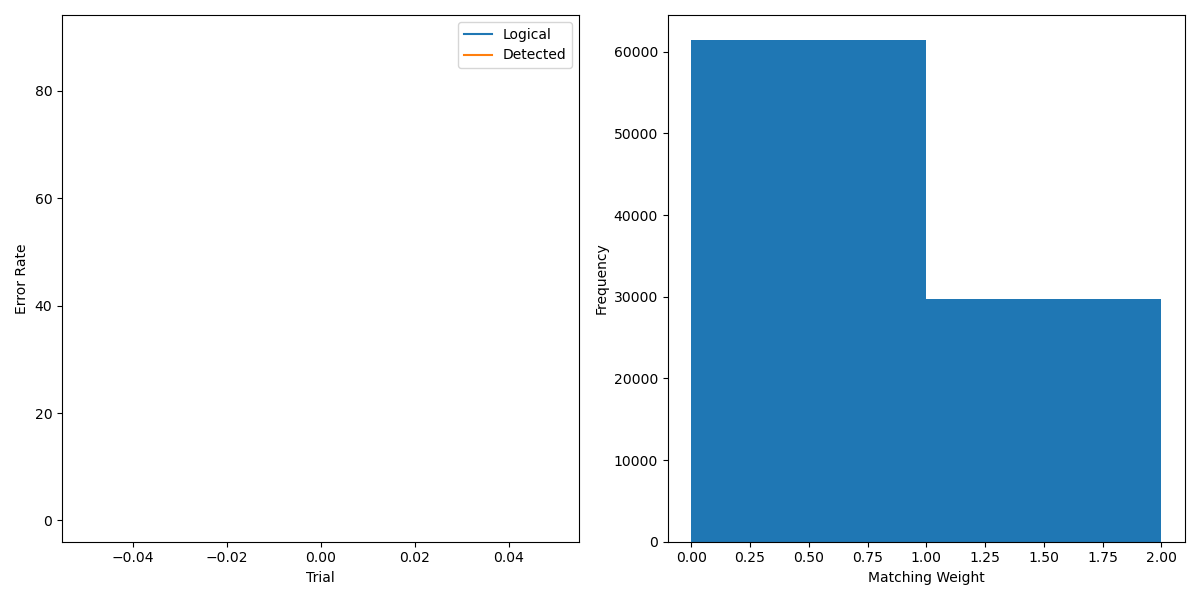
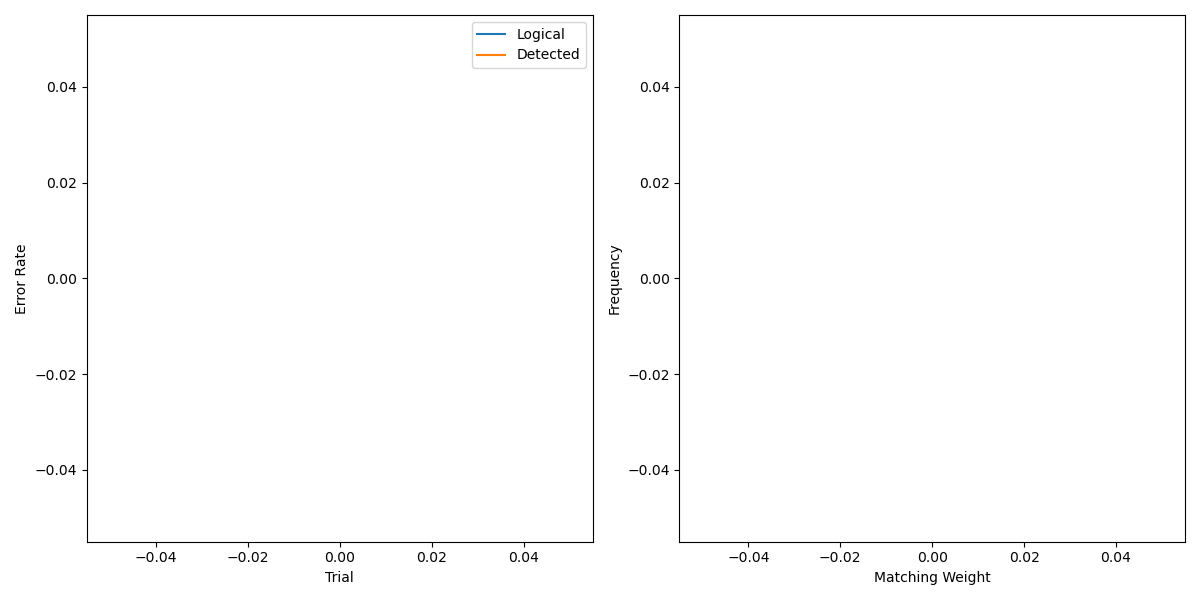
some plots

diff --git a/mine.py b/mine.py
@@ -4,20 +4,21 @@ from dotenv import load_dotenv
 import os
 import networkx as nx
 import pickle
+from qiskit.visualization import circuit_drawer
 
 from utils import apply_stabilizers, run_on_ibm, run_on_simulator, calculate_error_statistics, plot_error_stats
 from utils import process_detection_events, build_mwpm_graph, apply_mwpm, inject_random_errors
 
 load_dotenv()
 API_KEY = os.getenv("IBM_API_KEY")
-SIMULATION = False
+SIMULATION = True
 NUM_TRIALS = 1
 stats_history = []
 
 if not SIMULATION: NUM_TRIALS = 1
 
 for trial in range(NUM_TRIALS):
-    grid = 11
+    grid = 3
     n_rounds = 4
 
     if grid % 2 != 1:
@@ -56,47 +57,48 @@ for trial in range(NUM_TRIALS):
         c = c + 1
 
     # plot the circuit
-    # qc.draw('mpl')
-    # plt.savefig("circuit.png")
-    # plt.close()
+    fig = plt.figure(figsize=(12, 5), dpi=600)
+    fig = circuit_drawer(qc, output='mpl', fold=300, style="clifford") #fold=100
+    fig.set_dpi(600)
+    fig.savefig("circuit.png")
 
     # iterate through the stabilizer map
-    for k, v in stabilizer_map.items():
-        # the value is a list of connections, remove duplicates
-        stabilizer_map[k] = list(set(v))
-
-    print(stabilizer_map)
-
-    if SIMULATION:
-        counts = run_on_simulator(qc)
-    else:
-        counts = run_on_ibm(qc)
-
-    print(counts)
-
-    detection_events = process_detection_events(counts, grid, n_rounds)
-    G = build_mwpm_graph(detection_events, grid)
-    matching, total_weight = apply_mwpm(G)
-
-    logical_z_chain = [i * grid for i in range(grid) if i % 2 == 0]
-
-    stats = calculate_error_statistics(G, counts, grid, matching, stabilizer_map, detection_events, logical_z_chain)
-    stats['total_shots'] = sum(counts.values())
-    stats_history.append(stats)
-
-    # create a new object to combine all the stats and the counts
-    stats['counts'] = counts
-
-    # save stats under /stats folder with grid size as name. Save them as python objects.
-    with open(f'stats/boundary/stats_grid_{grid}.pkl', 'wb') as f:
-        pickle.dump(stats, f)
-
-    # Draw the matching graph
-    pos = nx.spring_layout(G)
-    nx.draw(G, pos, with_labels=True, node_color='lightblue')
-    labels = nx.get_edge_attributes(G, 'weight')
-    nx.draw_networkx_edge_labels(G, pos, edge_labels=labels)
-    plt.savefig(f"stats/{grid}_matching_graph.png")
-    plt.close()
+    # for k, v in stabilizer_map.items():
+    #     # the value is a list of connections, remove duplicates
+    #     stabilizer_map[k] = list(set(v))
+    #
+    # print(stabilizer_map)
+    #
+    # if SIMULATION:
+    #     counts = run_on_simulator(qc)
+    # else:
+    #     counts = run_on_ibm(qc)
+    #
+    # print(counts)
+    #
+    # detection_events = process_detection_events(counts, grid, n_rounds)
+    # G = build_mwpm_graph(detection_events, grid)
+    # matching, total_weight = apply_mwpm(G)
+    #
+    # logical_z_chain = [i * grid for i in range(grid) if i % 2 == 0]
+    #
+    # stats = calculate_error_statistics(G, counts, grid, matching, stabilizer_map, detection_events, logical_z_chain)
+    # stats['total_shots'] = sum(counts.values())
+    # stats_history.append(stats)
+    #
+    # # create a new object to combine all the stats and the counts
+    # stats['counts'] = counts
+    #
+    # # save stats under /stats folder with grid size as name. Save them as python objects.
+    # with open(f'stats/boundary/stats_grid_{grid}.pkl', 'wb') as f:
+    #     pickle.dump(stats, f)
+    #
+    # # Draw the matching graph
+    # pos = nx.spring_layout(G)
+    # nx.draw(G, pos, with_labels=True, node_color='lightblue')
+    # labels = nx.get_edge_attributes(G, 'weight')
+    # nx.draw_networkx_edge_labels(G, pos, edge_labels=labels)
+    # plt.savefig(f"stats/{grid}_matching_graph.png")
+    # plt.close()
 
 plot_error_stats(stats_history)

diff --git a/prova/michele.py b/prova/michele.py
@@ -103,6 +103,7 @@ def calculate_logical_error_mwpm(rounds_output, stabilizer_indices, stabilizer_m
     syndromes_x = []
     syndromes_z = []
 
+    physical_errors = 0
     logical_error = 0
 
     for round_idx in range(len(rounds_output) - 1):
@@ -111,6 +112,7 @@ def calculate_logical_error_mwpm(rounds_output, stabilizer_indices, stabilizer_m
 
         for bit_idx in range(len(current)):
             if current[bit_idx] != next_r[bit_idx]:
+                physical_errors += 1
                 stabilizer = stabilizer_indices[bit_idx]
                 stype = stabilizer_type.get(stabilizer, None)
                 if stype == 'Z':
@@ -128,7 +130,7 @@ def calculate_logical_error_mwpm(rounds_output, stabilizer_indices, stabilizer_m
         syndromes_x = []
         syndromes_z = []
 
-    return (logical_error / 3)
+    return (logical_error / 3), (physical_errors / 3)
 
 def analyze_results(results):
     results = results[::-1]  # Reverse if necessary
@@ -167,23 +169,22 @@ def analyze_results(results):
 
             splitted_c = splitted_c[::-1]
 
-            for i in splitted_c:
-                print(i)
-
-            logical = calculate_logical_error_mwpm(splitted_c, stabilizer_indices, stabilizer_map, stabilizer_type, logical_z, d)
+            logical, physical = calculate_logical_error_mwpm(splitted_c, stabilizer_indices, stabilizer_map, stabilizer_type, logical_z, d)
 
             if logical:
                 total_errors_count += 1
 
-        print(f"Distance {d}: {total_errors_count / len(counts)}")
+        print(f"Distance {d} - Logical errors:  {total_errors_count / len(counts)}, Physical errors: {physical / len(counts)}")
         distances.append(d)
         logical_errors.append(total_errors_count / len(counts))
+        physical_errors.append(physical / len(counts))
 
 with open('../stats/optimized/recovered_results.pkl', 'rb') as f:
     results = pickle.load(f)
 
 distances = []
 logical_errors = []
+physical_errors = []
 
 analyze_results(results)
 
@@ -197,3 +198,22 @@ plt.title("Logical Error Rate vs. Code Distance")
 plt.legend()
 plt.savefig("final_result.png")
 
+# plot distances and physical errors
+plt.figure(figsize=(12, 5), dpi=300)
+plt.plot(distances, physical_errors, 'o-', label='Physical Error Rate', color = "orange")
+plt.grid()
+plt.xlabel("Code Distance")
+plt.ylabel("Error Rate (per shot)")
+plt.title("Physical Error Rate vs. Code Distance")
+plt.legend()
+plt.savefig("final_result_physical.png")
+
+plt.figure(figsize=(12, 5), dpi=300)
+plt.plot(distances, logical_errors, 'o-', label='Logical Error Rate')
+plt.plot(distances, physical_errors, 'o-', label='Physical Error Rate', color = "orange")
+plt.grid()
+plt.xlabel("Code Distance")
+plt.ylabel("Error Rate (per shot)")
+plt.title("Error Rate vs. Code Distance")
+plt.legend()
+plt.savefig("final_result_both.png")
